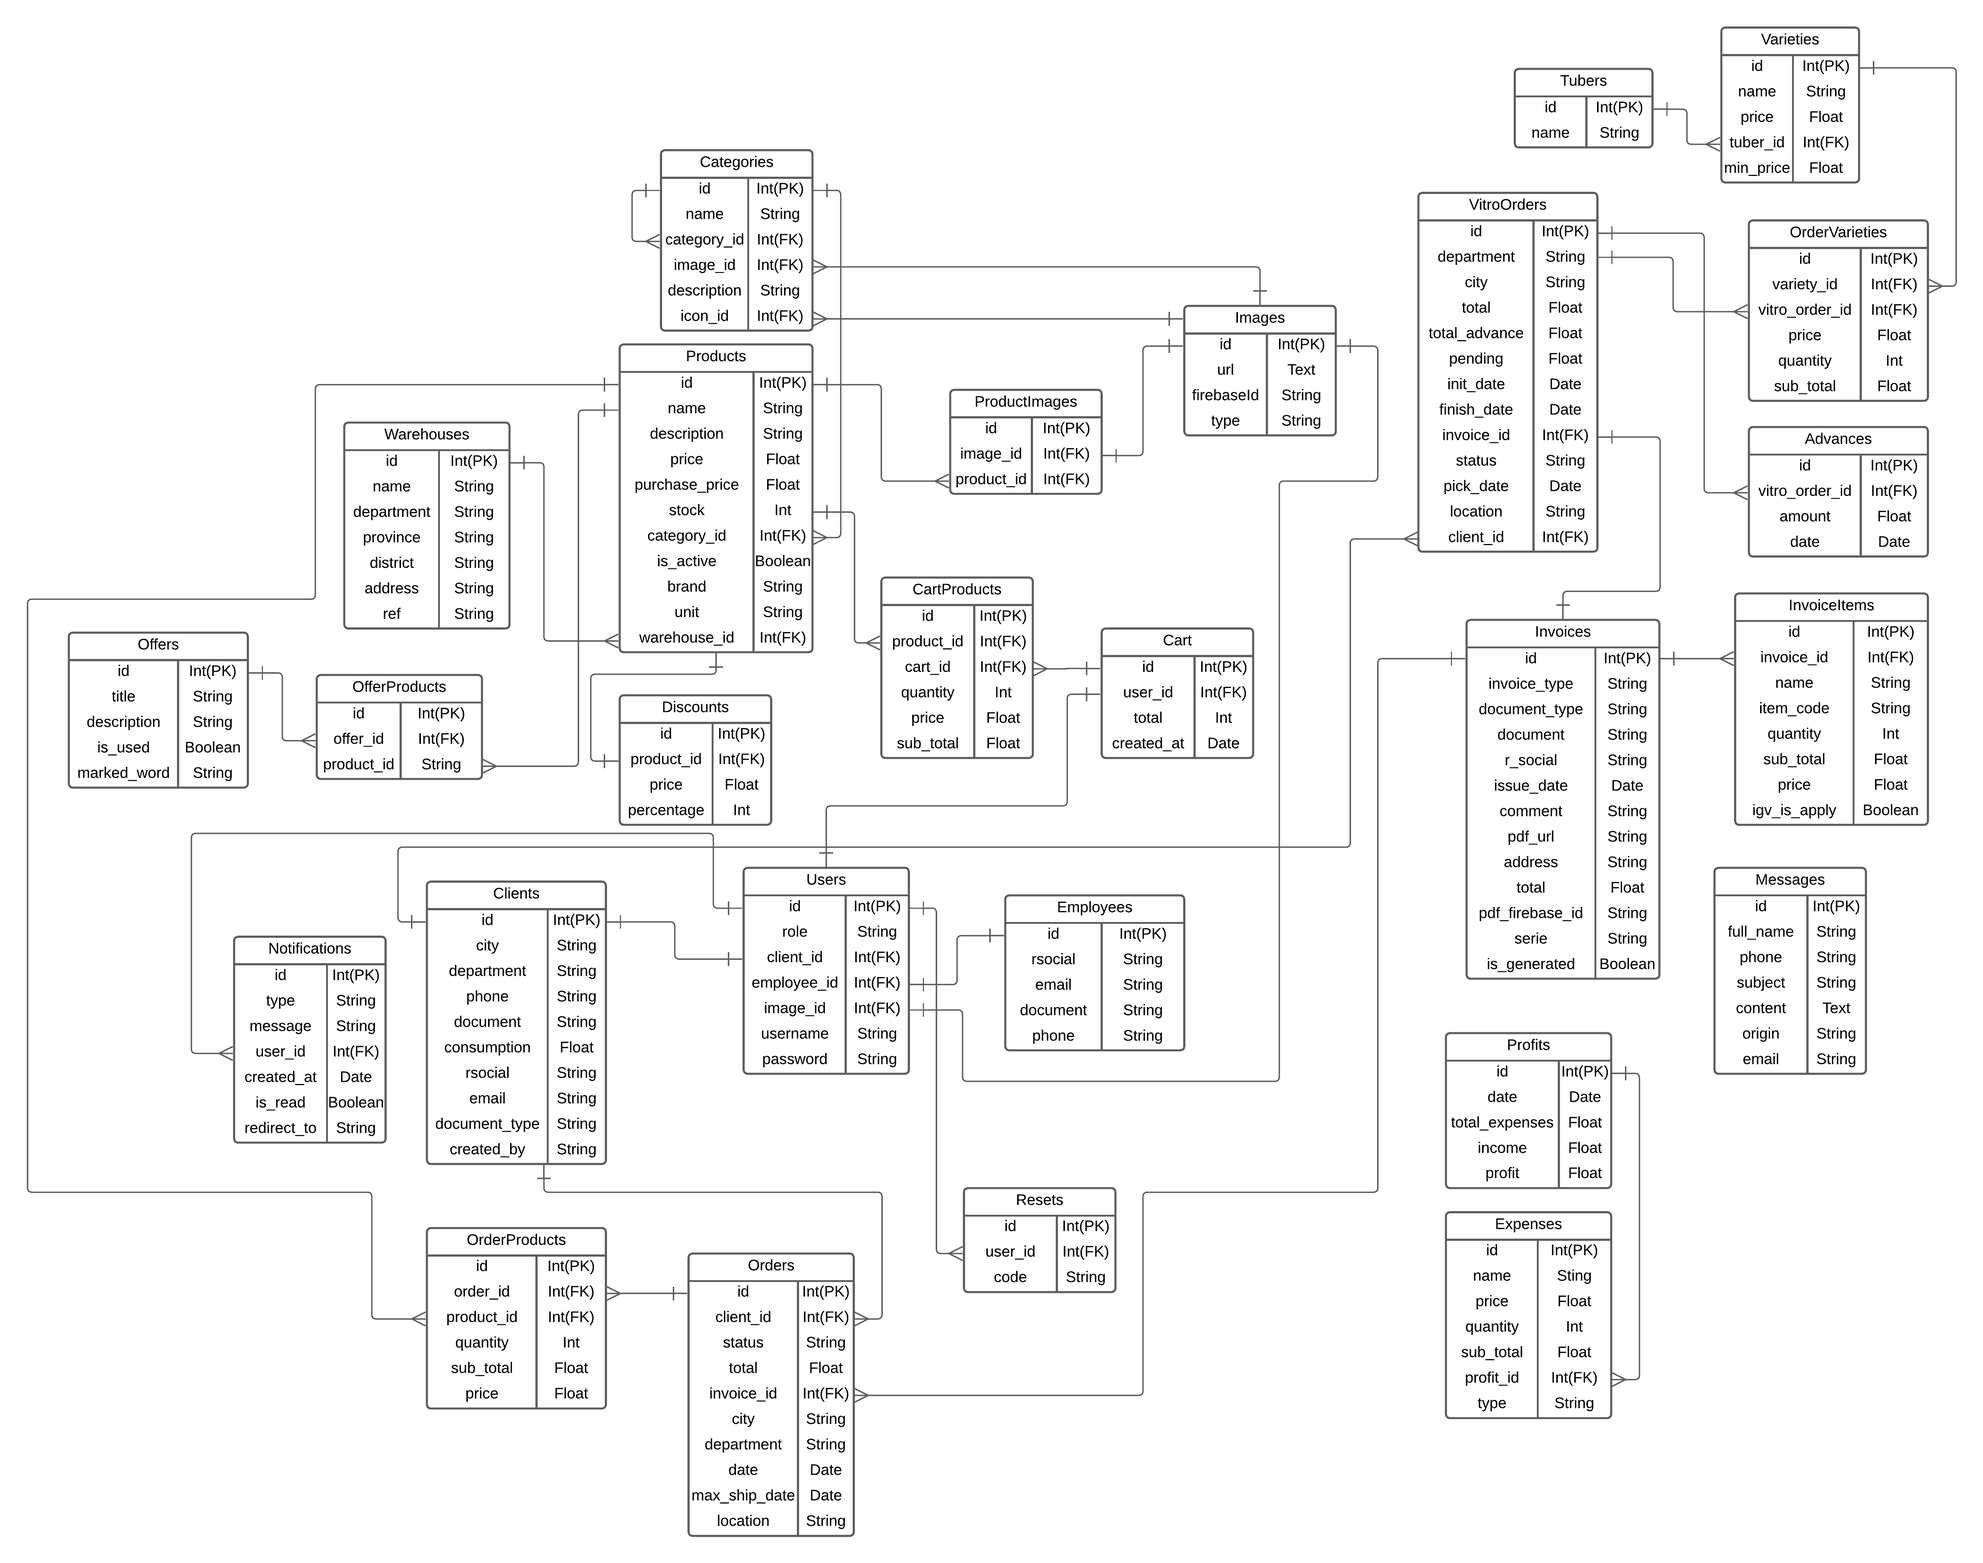
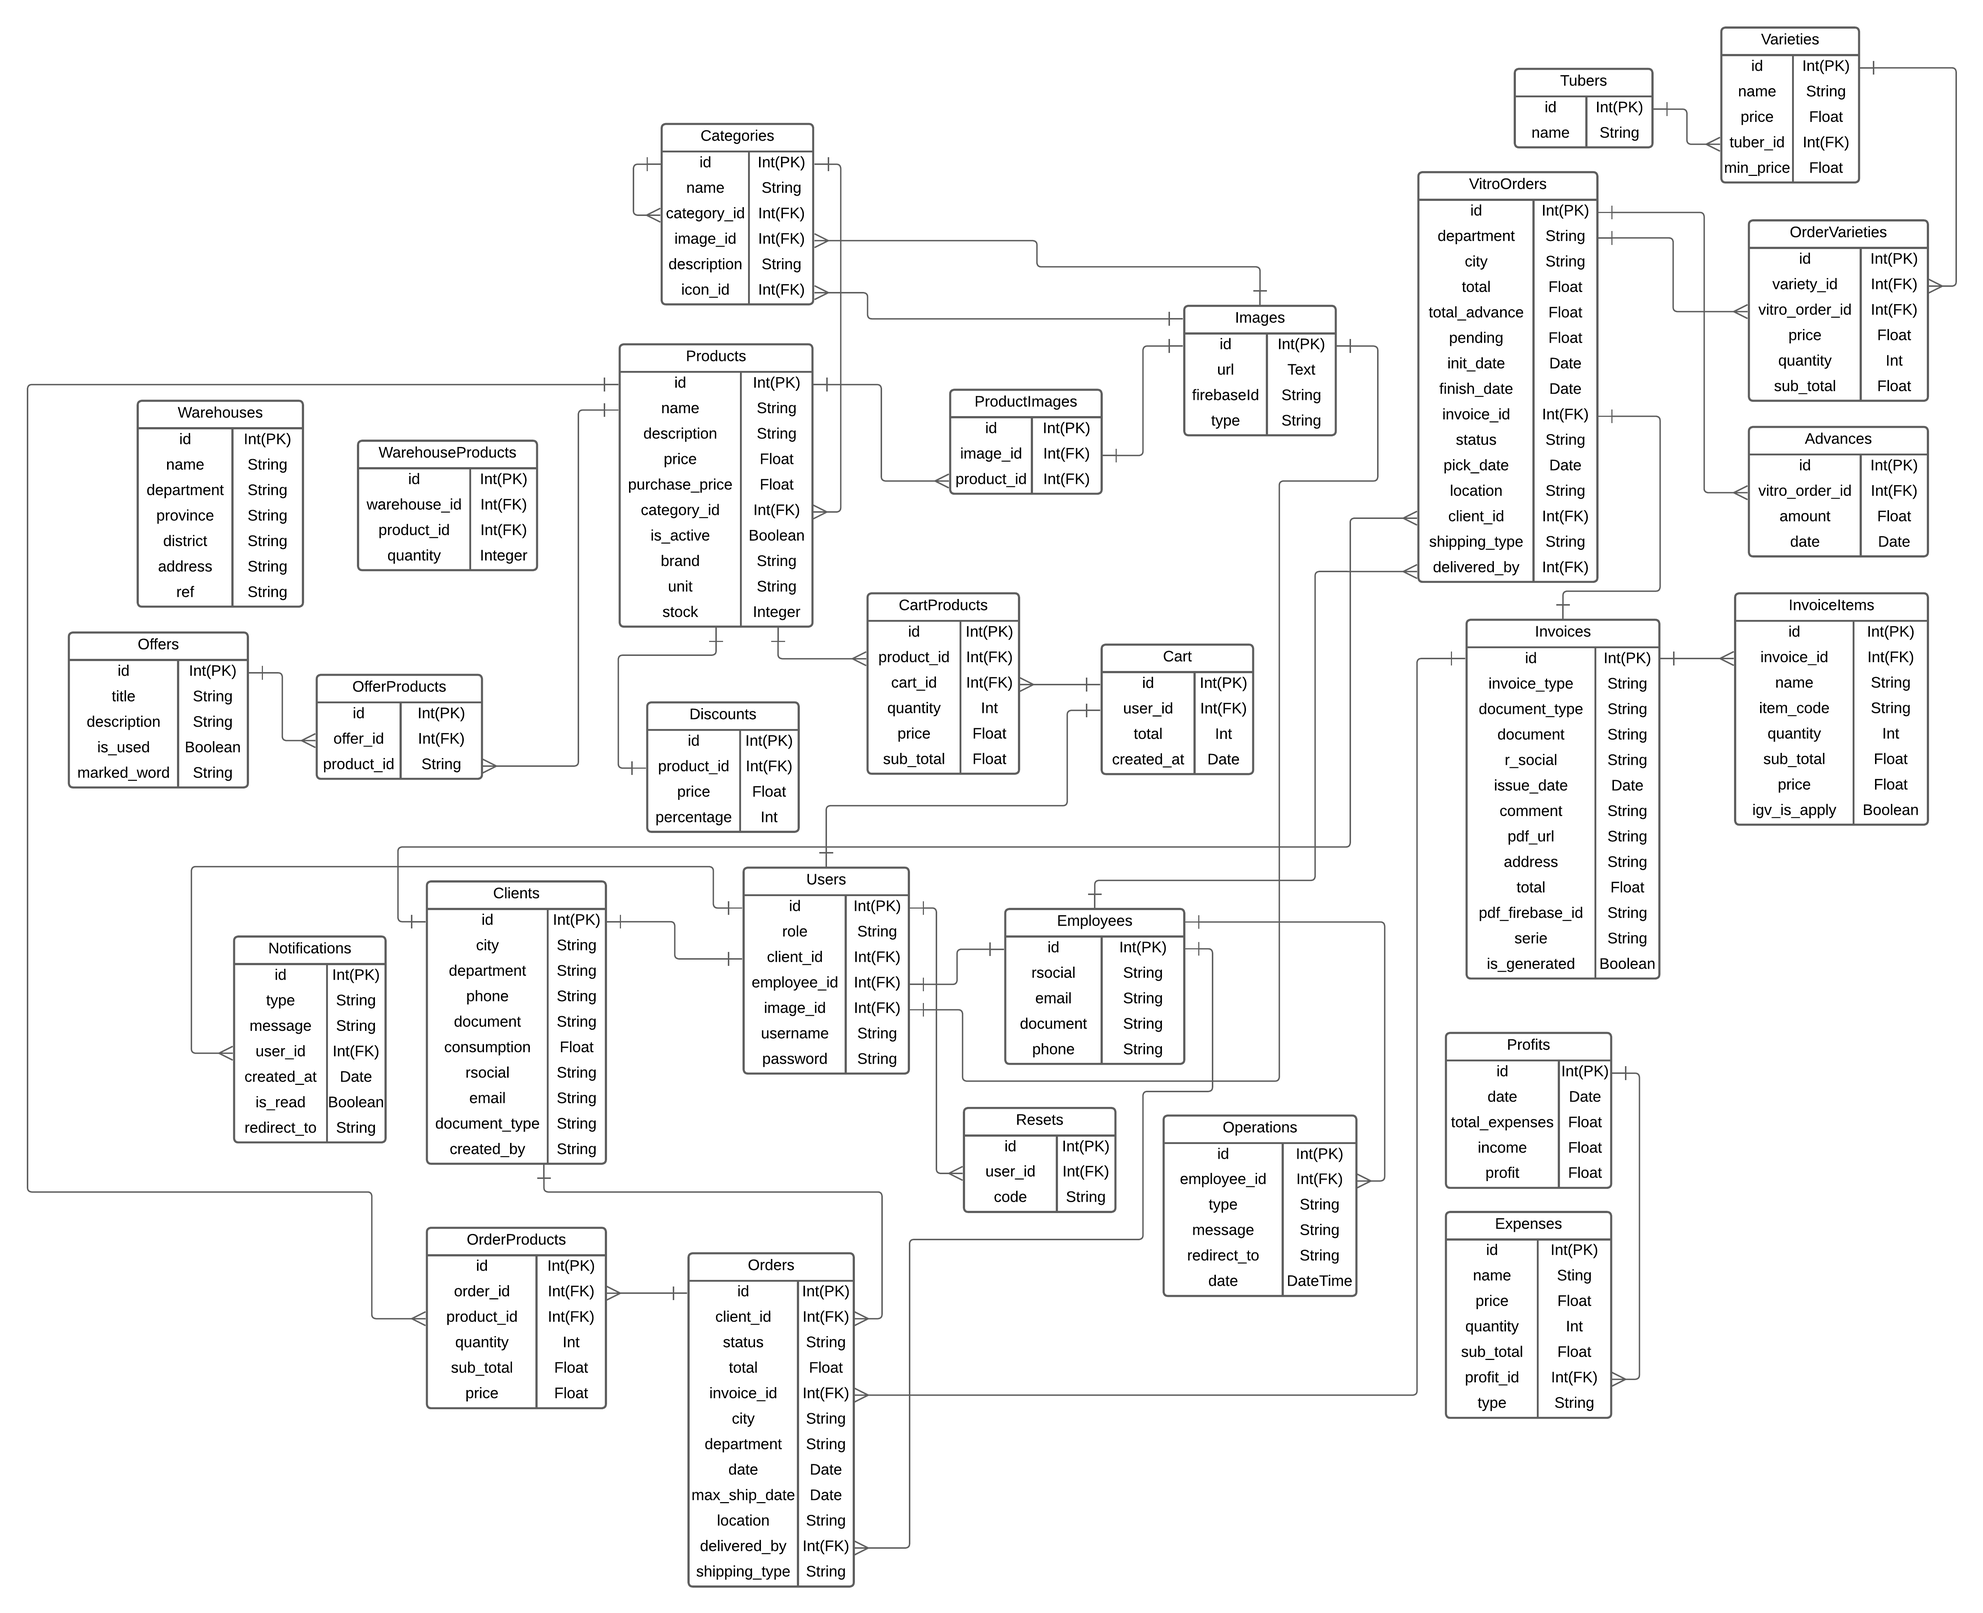
FIX: remove admin

diff --git a/src/main/java/com/inversionesaraujo/api/config/db/DbSeeder.java b/src/main/java/com/inversionesaraujo/api/config/db/DbSeeder.java
@@ -8,10 +8,10 @@ import org.springframework.context.annotation.Bean;
 import org.springframework.context.annotation.Configuration;
 import org.springframework.security.crypto.password.PasswordEncoder;
 
-import com.inversionesaraujo.api.business.service.IAdmin;
+import com.inversionesaraujo.api.business.service.IEmployee;
 import com.inversionesaraujo.api.business.service.IProfit;
 import com.inversionesaraujo.api.business.service.IUser;
-import com.inversionesaraujo.api.model.Admin;
+import com.inversionesaraujo.api.model.Employee;
 import com.inversionesaraujo.api.model.Profit;
 import com.inversionesaraujo.api.model.Role;
 import com.inversionesaraujo.api.model.User;
@@ -19,32 +19,35 @@ import com.inversionesaraujo.api.model.User;
 @Configuration
 public class DbSeeder {
     @Autowired
-    private IAdmin adminService;
-    @Autowired
     private IUser userService;
 	@Autowired
 	private PasswordEncoder passwordEncoder;
 	@Autowired
 	private IProfit profitService;
+	@Autowired
+	private IEmployee employeeService;
 
     @Bean
     CommandLineRunner seedDatabase() {
         return args -> {
 			String email = System.getenv("ADMIN_EMAIL");
-            Admin admin = adminService.findByEmail(email);
+			String document = System.getenv("ADMIN_DOCUMENT");
+			String phone = System.getenv("ADMIN_PHONE");
+            Employee admin = employeeService.findByEmail(email);
 
           	if(admin == null) {
-              	Admin newAdmin = Admin
+              	Employee newAdmin = Employee
                 	.builder()
 					.email(email)
-					.firstName("Yurfa")
-					.lastName("Araujo Estrada")
+					.document(document)
+					.rsocial("YURFA ARAUJO ESTRADA")
+					.phone(phone)
 					.build();
 
-				Admin savedAdmin = adminService.save(newAdmin);
+				Employee savedAdmin = employeeService.save(newAdmin);
 				User newUser = User
 					.builder()
-					.admin(savedAdmin)
+					.employee(savedAdmin)
 					.username(email)
 					.password(passwordEncoder.encode(System.getenv("ADMIN_PASSWORD")))
 					.role(Role.ADMINISTRADOR)
@@ -66,9 +69,7 @@ public class DbSeeder {
 			Month month = now.getMonth();
 			Profit profit = profitService.findByMonth(month.toString());
 			if(profit == null) {
-				Admin adminFound = adminService.findByEmail(email);
 				Profit newProfit = profitService.save(Profit.builder()
-					.admin(adminFound)
 					.date(now)
 					.month(month.toString())
 					.build());

diff --git a/src/main/java/com/inversionesaraujo/api/controller/UserController.java b/src/main/java/com/inversionesaraujo/api/controller/UserController.java
@@ -47,8 +47,7 @@ public class UserController {
                 .builder()
                 .id(currentUser.getId())
                 .image(currentUser.getImage())
-                .name(currentUser.getAdmin() != null ? currentUser.getAdmin().getFirstName() : currentUser.getClient().getRsocial())
-                .lastName(currentUser.getAdmin() != null ? currentUser.getAdmin().getLastName() : "")
+                .fullName(currentUser.getEmployee() != null ? currentUser.getEmployee().getRsocial() : currentUser.getClient().getRsocial())
                 .role(currentUser.getRole())
                 .username(currentUser.getUsername())
                 .build();
@@ -74,8 +73,7 @@ public class UserController {
                 .builder()
                 .id(user.getId())
                 .image(user.getImage())
-                .name(user.getAdmin() != null ? user.getAdmin().getFirstName() : user.getClient().getRsocial())
-                .lastName(user.getAdmin() != null ? user.getAdmin().getLastName() : "")
+                .fullName(user.getEmployee() != null ? user.getEmployee().getRsocial() : user.getClient().getRsocial())
                 .role(user.getRole())
                 .username(user.getUsername())
                 .build();
@@ -124,8 +122,7 @@ public class UserController {
                 .builder()
                 .id(updatedUser.getId())
                 .role(updatedUser.getRole())
-                .name(user.getAdmin() != null ? user.getAdmin().getFirstName() : user.getClient().getRsocial())
-                .lastName(user.getAdmin() != null ? user.getAdmin().getLastName() : "")
+                .fullName(user.getEmployee() != null ? user.getEmployee().getRsocial() : user.getClient().getRsocial())
                 .username(user.getUsername())
                 .image(user.getImage())
                 .build();

diff --git a/src/main/java/com/inversionesaraujo/api/controller/OrderProductController.java b/src/main/java/com/inversionesaraujo/api/controller/OrderProductController.java
@@ -16,13 +16,11 @@ import org.springframework.web.bind.annotation.RestController;
 
 import com.inversionesaraujo.api.business.dto.payload.MessageResponse;
 import com.inversionesaraujo.api.business.dto.request.OrderProductRequest;
-import com.inversionesaraujo.api.business.service.IAdmin;
 import com.inversionesaraujo.api.business.service.IClient;
 import com.inversionesaraujo.api.business.service.IOrder;
 import com.inversionesaraujo.api.business.service.IOrderProduct;
 import com.inversionesaraujo.api.business.service.IProduct;
 import com.inversionesaraujo.api.business.service.IProfit;
-import com.inversionesaraujo.api.model.Admin;
 import com.inversionesaraujo.api.model.Client;
 import com.inversionesaraujo.api.model.Order;
 import com.inversionesaraujo.api.model.OrderProduct;
@@ -40,8 +38,6 @@ public class OrderProductController {
     private IProduct productService;
     @Autowired
     private IProfit profitService;
-    @Autowired
-    private IAdmin adminService;
     @Autowired
     private IClient clientService;
 
@@ -99,10 +95,7 @@ public class OrderProductController {
             Month month = order.getDate().getMonth();
             Profit profit = profitService.findByMonth(month.toString());
             if(profit == null) {
-                String email = System.getenv("ADMIN_EMAIL");
-                Admin admin = adminService.findByEmail(email);
                 profitService.save(Profit.builder()
-                    .admin(admin)
                     .date(order.getDate())
                     .profit(subTotal)
                     .income(subTotal)

diff --git a/src/main/java/com/inversionesaraujo/api/controller/AdvanceController.java b/src/main/java/com/inversionesaraujo/api/controller/AdvanceController.java
@@ -16,12 +16,10 @@ import org.springframework.web.bind.annotation.RestController;
 
 import com.inversionesaraujo.api.business.dto.payload.MessageResponse;
 import com.inversionesaraujo.api.business.dto.request.AdvanceRequest;
-import com.inversionesaraujo.api.business.service.IAdmin;
 import com.inversionesaraujo.api.business.service.IAdvance;
 import com.inversionesaraujo.api.business.service.IClient;
 import com.inversionesaraujo.api.business.service.IProfit;
 import com.inversionesaraujo.api.business.service.IVitroOrder;
-import com.inversionesaraujo.api.model.Admin;
 import com.inversionesaraujo.api.model.Advance;
 import com.inversionesaraujo.api.model.Client;
 import com.inversionesaraujo.api.model.Profit;
@@ -36,8 +34,6 @@ public class AdvanceController {
     private IVitroOrder orderService;
     @Autowired
     private IProfit profitService;
-    @Autowired
-    private IAdmin adminService;
     @Autowired
     private IClient clientService;
 
@@ -83,10 +79,7 @@ public class AdvanceController {
             Month month = request.getDate().getMonth();
             Profit profit = profitService.findByMonth(month.toString());
             if(profit == null) {
-                String email = System.getenv("ADMIN_EMAIL");
-                Admin admin = adminService.findByEmail(email);
                 profitService.save(Profit.builder()
-                    .admin(admin)
                     .date(request.getDate())
                     .income(amount)
                     .profit(amount)

diff --git a/src/main/java/com/inversionesaraujo/api/business/service/impl/EmployeeImpl.java b/src/main/java/com/inversionesaraujo/api/business/service/impl/EmployeeImpl.java
@@ -1,0 +1,45 @@
+package com.inversionesaraujo.api.business.service.impl;
+
+import java.util.List;
+
+import org.springframework.beans.factory.annotation.Autowired;
+import org.springframework.dao.DataAccessException;
+import org.springframework.transaction.annotation.Transactional;
+
+import com.inversionesaraujo.api.business.service.IEmployee;
+import com.inversionesaraujo.api.model.Employee;
+import com.inversionesaraujo.api.repository.EmployeeRepository;
+
+public class EmployeeImpl implements IEmployee {
+    @Autowired
+    private EmployeeRepository employeeRepo;
+
+    @Transactional(readOnly = true)
+    @Override
+    public List<Employee> listAll() {
+        return employeeRepo.findAll();
+    }
+
+    @Transactional
+    @Override
+    public Employee save(Employee employee) {
+        return employeeRepo.save(employee);
+    }
+
+    @Transactional(readOnly = true)
+    @Override
+    public Employee findById(Integer id) {
+        return employeeRepo.findById(id).orElseThrow(() -> new DataAccessException("El empleado no existe") {});
+    }
+
+    @Transactional
+    @Override
+    public void delete(Employee employee) {
+        employeeRepo.delete(employee);
+    }
+
+    @Override
+    public Employee findByEmail(String email) {
+        return employeeRepo.findByEmail(email);
+    }
+}

diff --git a/src/main/java/com/inversionesaraujo/api/controller/ProfitController.java b/src/main/java/com/inversionesaraujo/api/controller/ProfitController.java
@@ -18,9 +18,7 @@ import org.springframework.web.bind.annotation.RestController;
 
 import com.inversionesaraujo.api.business.dto.payload.MessageResponse;
 import com.inversionesaraujo.api.business.dto.request.ProfitRequest;
-import com.inversionesaraujo.api.business.service.IAdmin;
 import com.inversionesaraujo.api.business.service.IProfit;
-import com.inversionesaraujo.api.model.Admin;
 import com.inversionesaraujo.api.model.Profit;
 import com.inversionesaraujo.api.model.SortDirection;
 
@@ -29,8 +27,6 @@ import com.inversionesaraujo.api.model.SortDirection;
 public class ProfitController {
     @Autowired
     private IProfit profitService;
-    @Autowired
-    private IAdmin adminService;
 
     @GetMapping
     public List<Profit> getAll(@RequestParam(defaultValue = "ASC") SortDirection sort) {
@@ -79,10 +75,8 @@ public class ProfitController {
     @PostMapping
     public ResponseEntity<MessageResponse> create(@RequestBody ProfitRequest request) {
         try {
-            Admin admin = adminService.findById(request.getAdminId());
             Month month = request.getDate().getMonth();
             Profit profit = profitService.save(Profit.builder()
-                .admin(admin)
                 .date(request.getDate())
                 .month(month.toString())
                 .build());

diff --git a/src/main/java/com/inversionesaraujo/api/business/service/impl/AuthImpl.java b/src/main/java/com/inversionesaraujo/api/business/service/impl/AuthImpl.java
@@ -36,8 +36,7 @@ public class AuthImpl implements IAuth {
             .builder()
             .id(user.getId())
             .image(user.getImage())
-            .name(user.getAdmin() != null ? user.getAdmin().getFirstName() : user.getClient().getRsocial())
-            .lastName(user.getAdmin() != null ? user.getAdmin().getLastName() : "")
+            .fullName(user.getEmployee() != null ? user.getEmployee().getRsocial() : user.getClient().getRsocial())
             .role(user.getRole())
             .username(user.getUsername())
             .build();
@@ -63,8 +62,7 @@ public class AuthImpl implements IAuth {
             .builder()
             .id(newUser.getId())
             .image(newUser.getImage())
-            .name(newUser.getAdmin() != null ? newUser.getAdmin().getFirstName() : newUser.getClient().getRsocial())
-            .lastName(newUser.getAdmin() != null ? newUser.getAdmin().getLastName() : "")
+            .fullName(newUser.getEmployee() != null ? newUser.getEmployee().getRsocial() : newUser.getClient().getRsocial())
             .role(newUser.getRole())
             .username(newUser.getUsername())
             .build();

diff --git a/src/main/java/com/inversionesaraujo/api/model/Profit.java b/src/main/java/com/inversionesaraujo/api/model/Profit.java
@@ -2,8 +2,6 @@ package com.inversionesaraujo.api.model;
 
 import java.util.List;
 
-import com.fasterxml.jackson.annotation.JsonIgnore;
-
 import java.time.LocalDate;
 
 import jakarta.persistence.CascadeType;
@@ -13,8 +11,6 @@ import jakarta.persistence.FetchType;
 import jakarta.persistence.GeneratedValue;
 import jakarta.persistence.GenerationType;
 import jakarta.persistence.Id;
-import jakarta.persistence.JoinColumn;
-import jakarta.persistence.ManyToOne;
 import jakarta.persistence.OneToMany;
 import jakarta.persistence.Table;
 import jakarta.persistence.UniqueConstraint;
@@ -34,11 +30,6 @@ public class Profit {
     @Id
     @GeneratedValue(strategy = GenerationType.IDENTITY)
     private Integer id;
-    @ManyToOne
-    @JoinColumn(name = "admin_id")
-    @NotNull(message = "El id del admin no puede ir vacio")
-    @JsonIgnore
-    private Admin admin;
     @NotNull(message = "La fecha no puede ir vacia")
     private LocalDate date;
     @Column(nullable = false)

diff --git a/src/main/java/com/inversionesaraujo/api/model/User.java b/src/main/java/com/inversionesaraujo/api/model/User.java
@@ -49,8 +49,8 @@ public class User implements UserDetails {
     @JoinColumn(name = "client_id")
     private Client client;
     @OneToOne
-    @JoinColumn(name = "admin_id")
-    private Admin admin;
+    @JoinColumn(name = "employee_id")
+    private Employee employee;
     @OneToOne(cascade = CascadeType.ALL)
     @JoinColumn(name = "image_id")
     private Image image;

diff --git a/src/main/java/com/inversionesaraujo/api/business/service/IEmployee.java b/src/main/java/com/inversionesaraujo/api/business/service/IEmployee.java
@@ -1,0 +1,17 @@
+package com.inversionesaraujo.api.business.service;
+
+import java.util.List;
+
+import com.inversionesaraujo.api.model.Employee;
+
+public interface IEmployee {
+    List<Employee> listAll();
+
+    Employee save(Employee employee);
+
+    Employee findById(Integer id);
+
+    Employee findByEmail(String email);
+
+    void delete(Employee employee);
+}

diff --git a/src/main/java/com/inversionesaraujo/api/repository/EmployeeRepository.java b/src/main/java/com/inversionesaraujo/api/repository/EmployeeRepository.java
@@ -1,0 +1,10 @@
+package com.inversionesaraujo.api.repository;
+
+import org.springframework.data.jpa.repository.JpaRepository;
+
+import com.inversionesaraujo.api.model.Employee;
+
+
+public interface EmployeeRepository extends JpaRepository<Employee, Integer> {
+    Employee findByEmail(String email);
+}

diff --git a/src/main/java/com/inversionesaraujo/api/business/dto/payload/UserResponse.java b/src/main/java/com/inversionesaraujo/api/business/dto/payload/UserResponse.java
@@ -15,8 +15,7 @@ import lombok.NoArgsConstructor;
 public class UserResponse {
   public Integer id;
   public Role role;
-  public String name;
-  public String lastName;
   public String username;
+  public String fullName;
   public Image image;
 }
